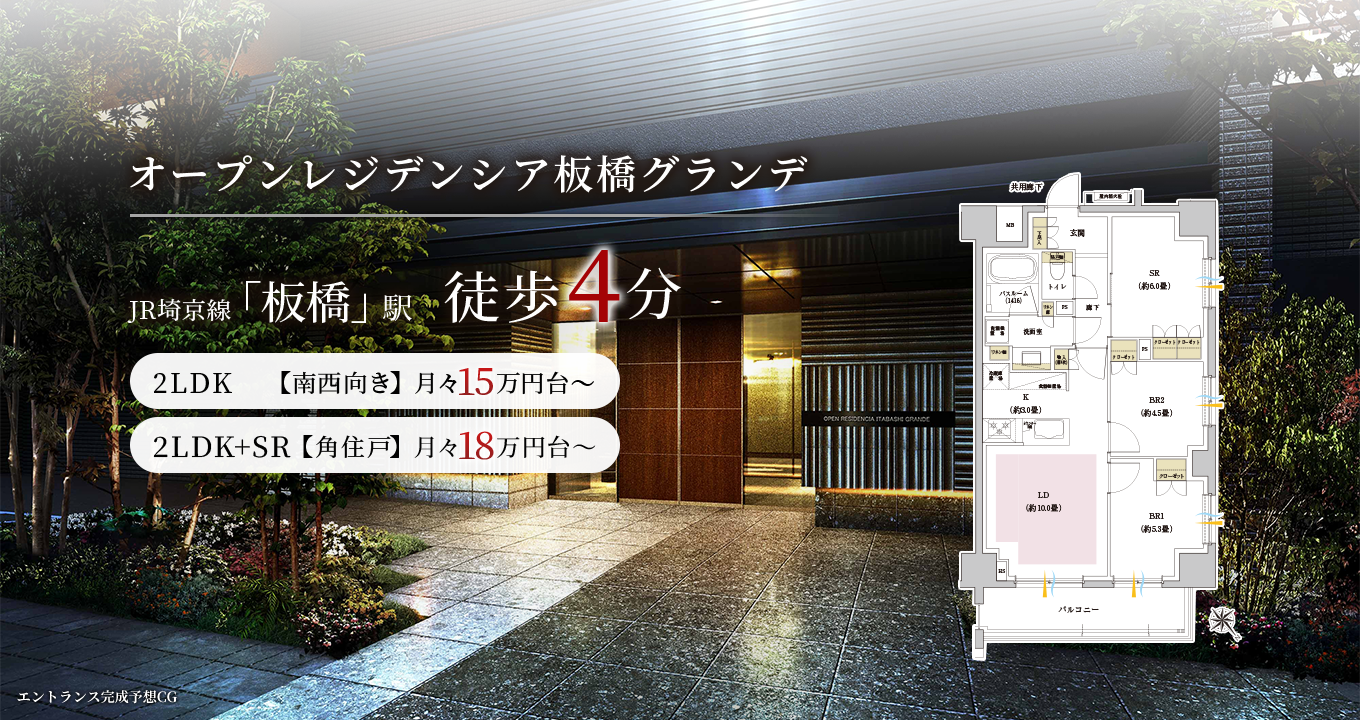
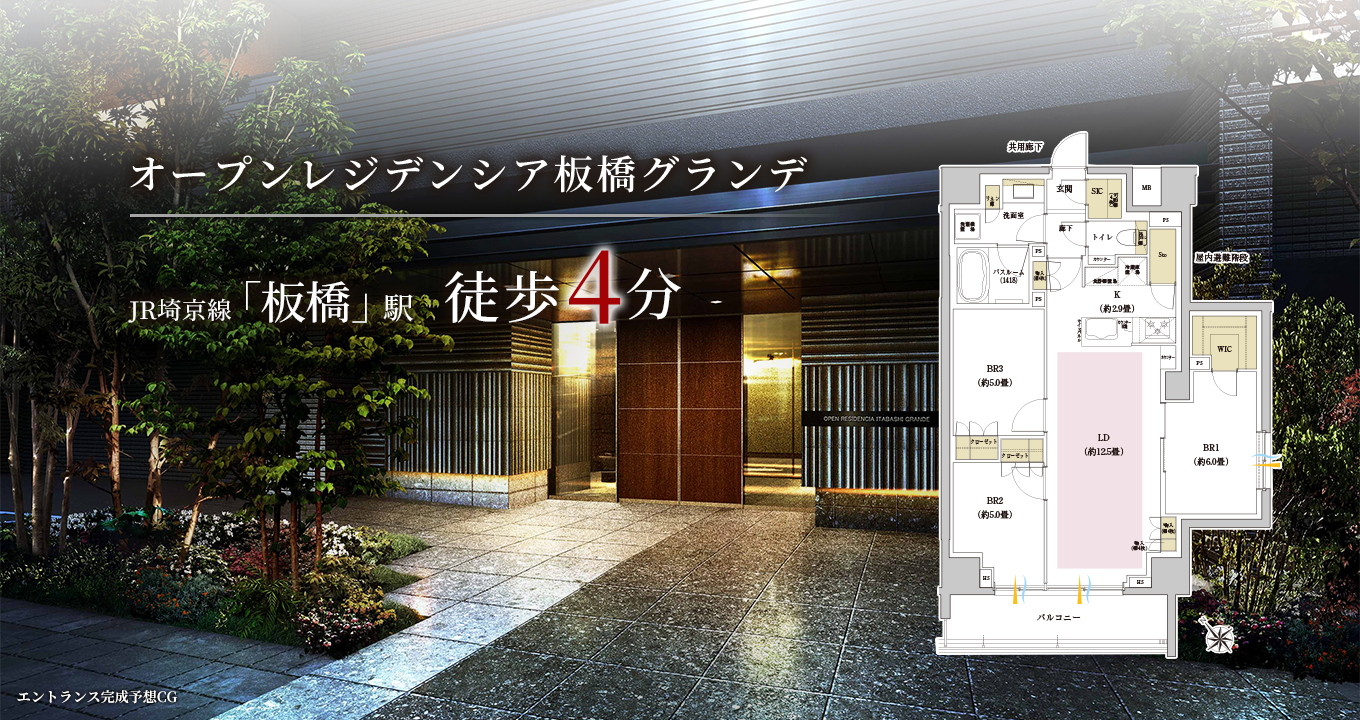
fix: KV差し替え、Ea2・G1・Jr削除、C掲載、テキスト修正、返済例削除[lp]

diff --git a/index.html b/index.html
@@ -631,7 +631,7 @@
             <!-- ＣＴＡブロック-->
             <div class="m-sec3Block__cta">
               <div class="m-sec3Block__cta_left inviewFadeIn">
-                <div class="m-sec3Block__cta_ttl"><span>月々</span><span class="num gold">9</span><span class="gold">万円台</span><span>から購入可能<!--<sup>※1</sup>--></span></div>
+                <p class="m-sec3Block__cta_txt">資料請求いただいたお客様に<br>より詳しい資料を送付させていただきます。</p>
               </div>
               <div class="m-sec3Block__cta_right inviewFadeIn"><a class="m-btn__link" href="https://ms.ohd.openhouse-group.com/form/kanto/request/itabashi-g/">
                   <picture class="lozad" data-alt="カタログをもらう">
@@ -641,36 +641,6 @@
             </div>
 
             <div class="m-sec3Block m-sec3Block__type">
-              <div class="m-sec3Block__type_item inviewFadeIn">
-                <div class="m-sec3Block__type_type">Ea2 type</div>
-                <div class="m-sec3Block__type_room">1LDK<span>+SIC</span></div>
-                <div class="m-sec3Block__type_floor">
-                  <span class="txt">専有面積</span>
-                  <span class="line"></span>
-                  <span class="area">36.98</span>
-                  <span class="unit">㎡</span>
-                  <div class="type_wrap">
-                    <span class="balcony">バルコニー面積／5.36㎡</span>
-                  </div>
-                </div>
-                <div class="m-sec3Block__type_listWrap">
-                  <ul class="m-sec3Block__type_list">
-                    <li class="m-sec3Block__type_list_item">SIC付 1LDKプラン。</li>
-                    <li class="m-sec3Block__type_list_item">BRの引き戸を開放すれば、リビング・ダイニング・キッチンと一体化した空間として利用可能。</li>
-                    <li class="m-sec3Block__type_list_item">1416サイズのバスルーム。</li>
-                  </ul>
-                </div>
-                <div class="m-sec3Block__type_img">
-                  <picture class="lozad" data-alt="Ea2 type 間取り">
-                    <source srcset="./01/img/sec3_type_ea2.png"/>
-                  </picture>
-                </div>
-                <div class="hanrei">
-                  <picture class="lozad" data-alt="Ea2 type 凡例">
-                    <source srcset="./01/img/sec3_hanrei_ea2.png"/>
-                  </picture>
-                </div>
-              </div>
               <div class="m-sec3Block__type_item inviewFadeIn">
                 <div class="m-sec3Block__type_type">Bb type</div>
                 <div class="m-sec3Block__type_room">2LDK<span>+SIC</span></div>
@@ -702,63 +672,32 @@
                 </div>
               </div>
               <div class="m-sec3Block__type_item inviewFadeIn">
-                <div class="m-sec3Block__type_type">G1 type</div>
-                <div class="m-sec3Block__type_room">2LDK+SR<span></span></div>
+                <div class="m-sec3Block__type_type">C type</div>
+                <div class="m-sec3Block__type_room">3LDK<span>+WIC+SIC+Sto.</span></div>
                 <div class="m-sec3Block__type_floor">
                   <span class="txt">専有面積</span>
                   <span class="line"></span>
-                  <span class="area">62.75</span>
+                  <span class="area">72.47</span>
                   <span class="unit">㎡</span>
                   <div class="type_wrap">
-                    <span class="balcony">バルコニー面積／8.26㎡</span>
+                    <span class="balcony">バルコニー面積／8.19㎡</span>
                   </div>
                 </div>
                 <div class="m-sec3Block__type_listWrap">
                   <ul class="m-sec3Block__type_list">
                     <li class="m-sec3Block__type_list_item">2面開口角住戸プラン。</li>
-                    <li class="m-sec3Block__type_list_item">対面式キッチンを採用。</li>
-                    <li class="m-sec3Block__type_list_item">LDが直接見えないよう玄関スペースをクランクインかつ広く設けたプラン。</li>
+                    <li class="m-sec3Block__type_list_item">食料品や食器の収納、災害時の備蓄もできるストレージ付きキッチン。</li>
+                    <li class="m-sec3Block__type_list_item">家族のコミュニケーションがとりやすいリビングイン設計。</li>
                   </ul>
                 </div>
                 <div class="m-sec3Block__type_img">
-                  <picture class="lozad" data-alt="G1 type 間取り">
-                    <source srcset="./01/img/sec3_type_g1.png"/>
+                  <picture class="lozad" data-alt="C type 間取り">
+                    <source srcset="./01/img/sec3_type_c.png"/>
                   </picture>
                 </div>
                 <div class="hanrei">
-                  <picture class="lozad" data-alt="G1 type 凡例">
-                    <source srcset="./01/img/sec3_hanrei_g1.png"/>
-                  </picture>
-                </div>
-              </div>
-              <div class="m-sec3Block__type_item inviewFadeIn">
-                <div class="m-sec3Block__type_type">Jr type</div>
-                <div class="m-sec3Block__type_room">4LDK<span>+WIC+SIC</span></div>
-                <div class="m-sec3Block__type_floor">
-                  <span class="txt">専有面積</span>
-                  <span class="line"></span>
-                  <span class="area">88.31</span>
-                  <span class="unit">㎡</span>
-                  <div class="type_wrap">
-                    <span class="balcony">バルコニー面積／12.32㎡</span>
-                    <span class="balcony">ルーフバルコニー面積／9.76㎡</span>
-                  </div>
-                </div>
-                <div class="m-sec3Block__type_listWrap">
-                  <ul class="m-sec3Block__type_list">
-                    <li class="m-sec3Block__type_list_item">ルーフバルコニー付88㎡超4LDKプラン。</li>
-                    <li class="m-sec3Block__type_list_item">家具配置のしやすい横長のリビング・ダイニング。</li>
-                    <li class="m-sec3Block__type_list_item">洗面ボウルを2つ並べることで朝の準備もスムーズに。</li>
-                  </ul>
-                </div>
-                <div class="m-sec3Block__type_img">
-                  <picture class="lozad" data-alt="Jr type 間取り">
-                    <source srcset="./01/img/sec3_type_jr.png"/>
-                  </picture>
-                </div>
-                <div class="hanrei">
-                  <picture class="lozad" data-alt="Jr type 凡例">
-                    <source srcset="./01/img/sec3_hanrei_jr.png"/>
+                  <picture class="lozad" data-alt="C type 凡例">
+                    <source srcset="./01/img/sec3_hanrei_c.png"/>
                   </picture>
                 </div>
               </div>
@@ -1029,7 +968,7 @@
                     ※掲載の写真は同種サンプルを撮影したもので、実際とは多少異なる場合があります。印刷の都合により若干色合いが異なる場合があります。<br>
                     ※掲載の概念図は形状等をイラスト化したもので実際とは異なる場合があります。<br>
                     <br>
-                    ■Ea2タイプ（806号室・1LDK・36.98㎡）返済例概要<br>
+                    <!-- ■Ea2タイプ（806号室・1LDK・36.98㎡）返済例概要<br>
                     ●販売金額：6,488万円 ●頭金：688万円 ●借入金額：5,800万円（内ボーナス支払分 1,910万円）<br>
                     ●月々の返済額（年12回）：99,865円 ●ボーナス時加算額（年2回）：294,451円 ●取扱金融機関：住信SBIネット銀行<br>
                     ●金利プラン：変動・0.435％（弊社提携ローンにてお申し込みの場合） ●返済期間：35年<br>
@@ -1053,7 +992,7 @@
                     ※お申込に際しては所定の審査があります。審査の結果によってはご希望に添いかねる場合がありますのでご了承ください。<br>
                     ※物件引渡時から引き渡し後に月額で発生する諸費用・管理費・修繕積立金・インターネット使用料等は含まれておりません。所有権者様に別途負担が発生します。<br>
                     ※他の支払返済のプランもございます。詳しくは、物件販売係員までお尋ねください。<br>
-                    <br>
+                    <br> -->
                     情報登録日 2025年2月14日<br>
                     次回情報更新日 随時<br>
                     取引条件の有効期限 2025年2月28日
